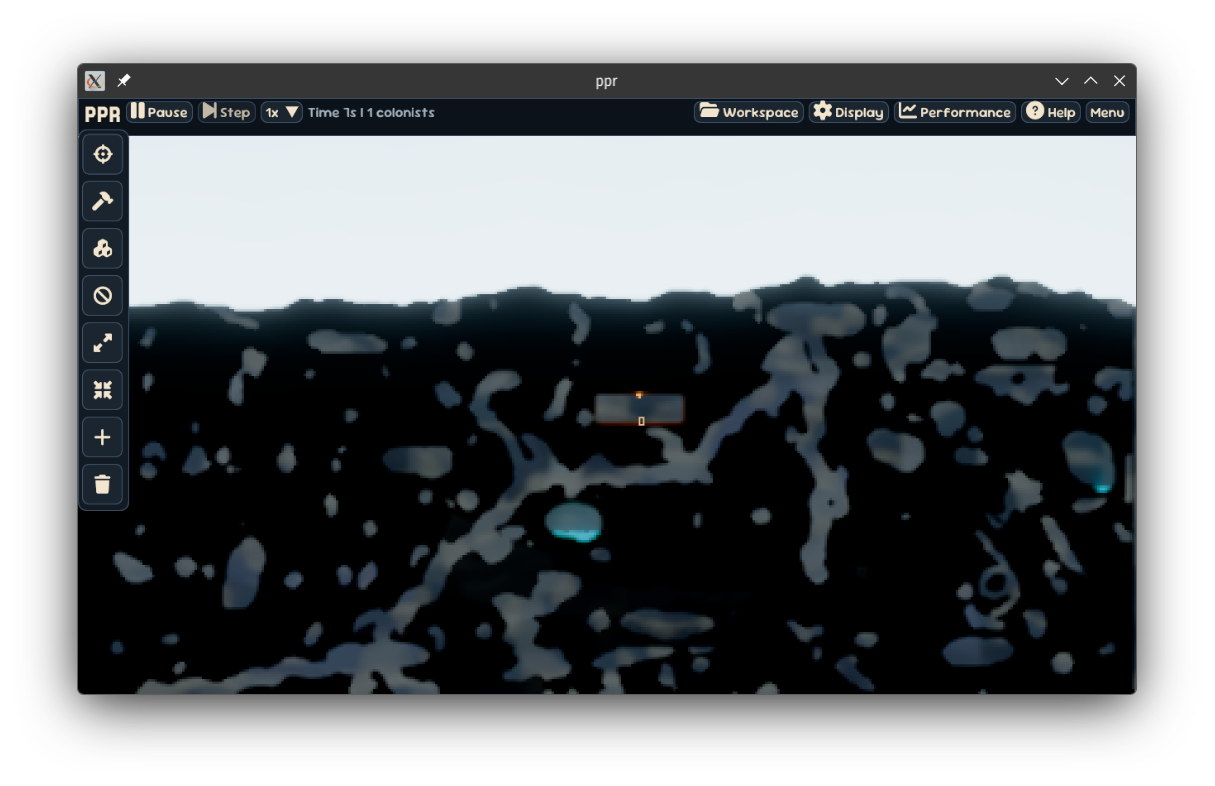
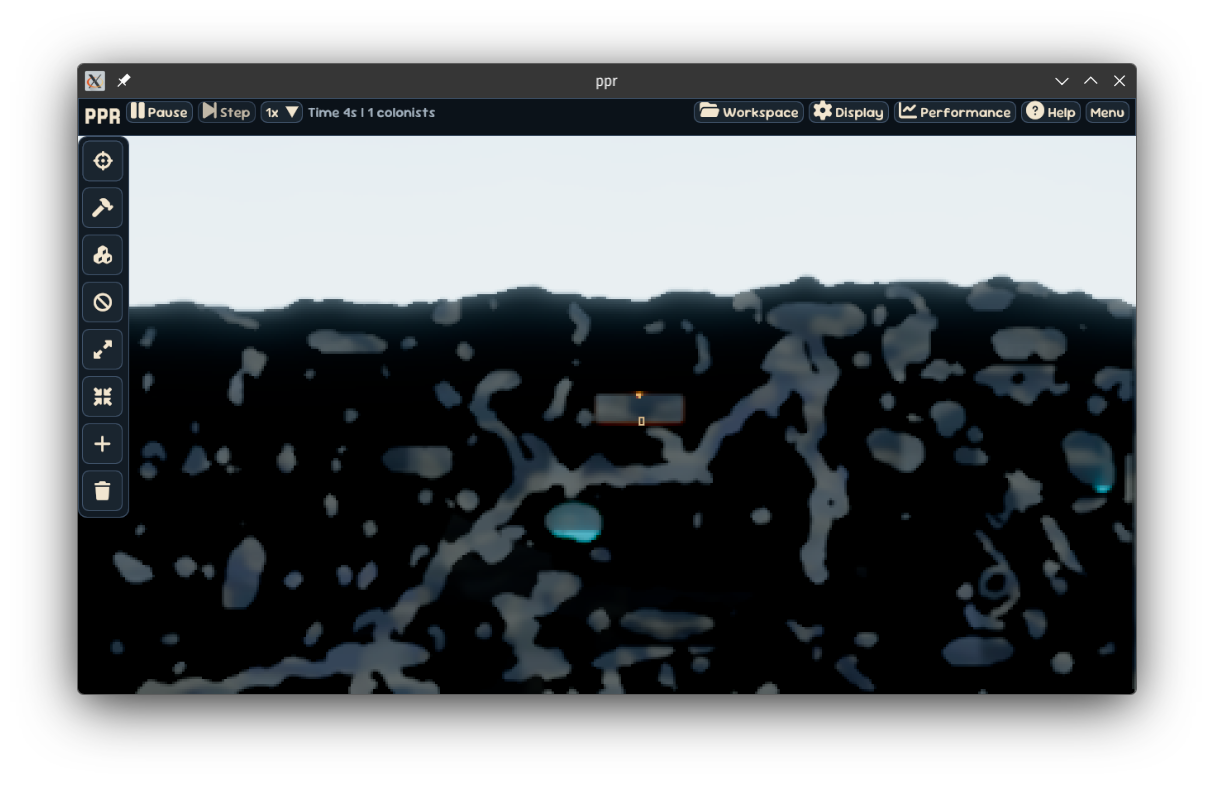
ui: align the ribbon row and report its drawn height

Changed region(s): [[0.0609, 0.1221, 0.1218, 0.6718], [0.2741, 0.1221, 0.3654, 0.1527]]

diff --git a/game/ui/ColonyPanel.cpp b/game/ui/ColonyPanel.cpp
@@ -507,6 +507,9 @@ namespace pP::colony {
 
             ImFont *const heading_font = ui::theme::font(ui::theme::EFont::heading);
             ImGui::PushFont(heading_font, heading_font->LegacySize);
+            // Baseline-align the logo with the framed controls beside it;
+            // otherwise the taller heading face sits on the line's top edge.
+            ImGui::AlignTextToFramePadding();
             flow.place(plainWidth("PPR"));
             ImGui::TextUnformatted("PPR");
             ImGui::PopFont();
@@ -539,6 +542,7 @@ namespace pP::colony {
                 status, sizeof(status), "Time %.0fs | %llu colonists", colony.m_simulated_ms / 1000.0,
                 static_cast<unsigned long long>(colony.m_agents.size()));
             flow.place(plainWidth(status));
+            ImGui::AlignTextToFramePadding();
             ImGui::PushStyleColor(ImGuiCol_Text, ui::theme::kTextSecondary.vec4());
             ImGui::TextUnformatted(status);
             ImGui::PopStyleColor();
@@ -631,7 +635,10 @@ namespace pP::colony {
                 ImGui::EndPopup();
             }
 
-            const float height = ImGui::GetCursorPosY() + ImGui::GetStyle().WindowPadding.y;
+            // The reported height must be the drawn window height: deriving it
+            // from the cursor and padding missed the border and let the rail
+            // below overlap the band.
+            const float height = ImGui::GetWindowHeight();
             ImGui::End();
             ImGui::PopStyleColor(2);
             ImGui::PopStyleVar(4);
